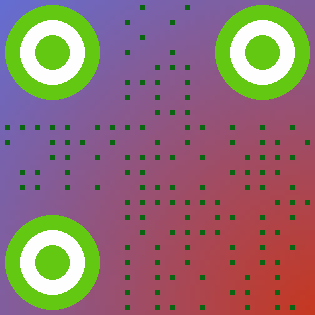
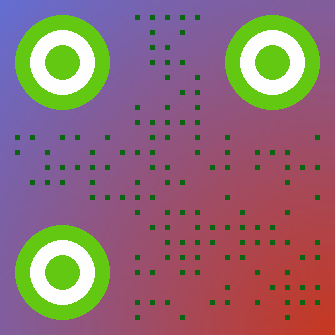
update redme

diff --git a/index.php b/index.php
@@ -15,7 +15,7 @@ $qrcode
 $qrcode->png('qr1.png');
 $png1 = $qrcode->gif();
 $qrcode
-    ->setOuterFrame(1)
+    ->setOuterFrame(10)
     ->setMergeLevel($qrcode::MERGE_LEVEL_NO) //合并点
     ->setPixelPerPoint(5) //设置每个点的像素
 
@@ -32,7 +32,7 @@ $png2 = $qrcode->png();
 $qrcode->setInterval(2) //设置点间空隙
 
     ->setDecal('test.png') //设置中间的贴图
-    ->setDecalSize(0.1) //设置中间贴图的大小
+    ->setDecalSize(0.2) //设置中间贴图的大小
 
     ->setLocator($qrcode::LOCATOR_TYPE_DIAMOND) //设置定位点样式
     ->setLocatorColor(140,100,46) //设置定位点颜色

diff --git a/README.md b/README.md
@@ -1,9 +1,15 @@
 二维码生成与美化工具
 
+```shell script
+composer require lrq/qrcode:~1.0.0
+```
+
 如果只是想生成一个默认的二维码
 ```php
+use lrq\qrcode\QrcodeMain;
+
 $str = 'test'; //初始化传入需要转化为二维码的字符串
-$qrcode = new \tools\QrCodeTools($str); //初始化传入需要转化为二维码的字符串
+$qrcode = new QrcodeMain($str); //初始化传入需要转化为二维码的字符串
 $qrcode->execute();
 $qrcode->png('qr1.png'); //保存图片
 echo $qrcode->gif(); //输出<img /> 标签
